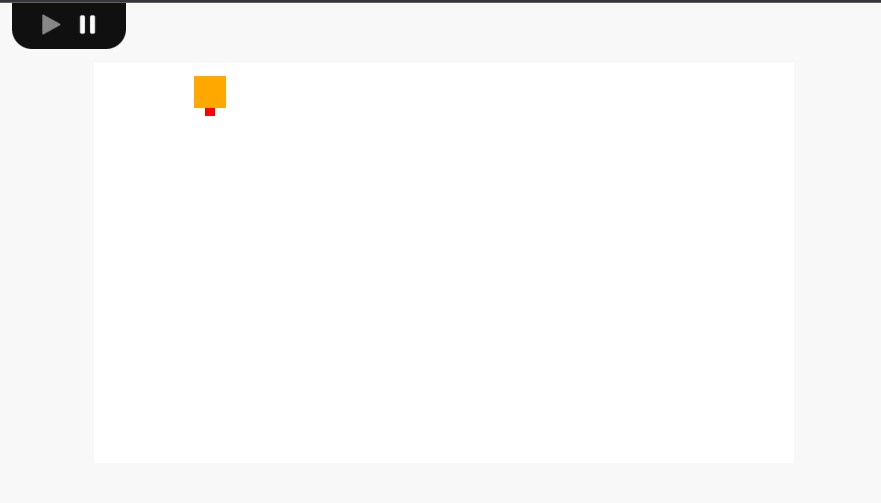
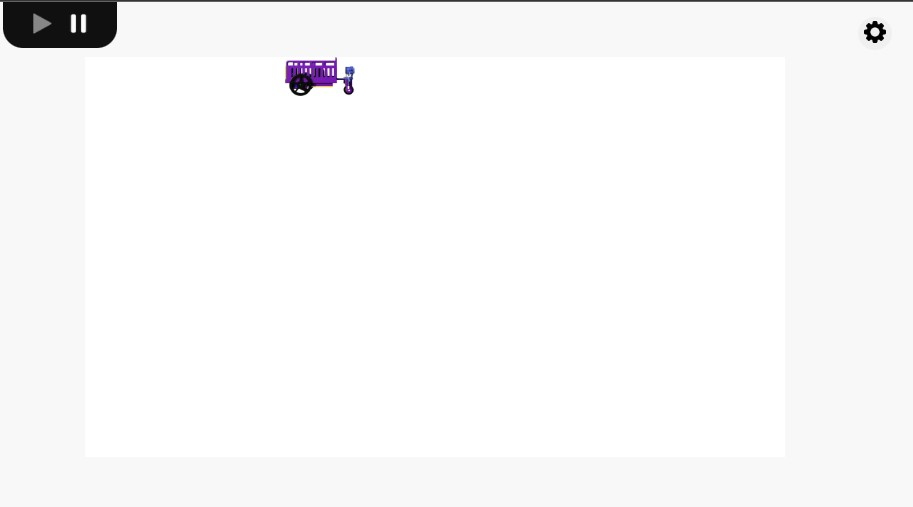
feat: destaque aro-code e orientacao do player

Changed region(s): [[0.0, 0.0, 1.0, 0.1193], [0.3065, 0.1193, 0.3984, 0.2087], [0.2145, 0.1491, 0.2758, 0.2386]]

diff --git a/pages/index.jsx b/pages/index.jsx
@@ -7,6 +7,9 @@ import LogoAP from '@/components/ui/LogoAP'
 
 import { useState } from 'react'
 
+import HwImage1 from '../public/images/hw-1.jpeg';
+import HwImage2 from '../public/images/hw-2.jpeg';
+
 export default function Home() {
 
   const [showNavbarLinks, setShowNavbarLinks] = useState(false);
@@ -34,6 +37,7 @@ export default function Home() {
               <div type="button" className={HomeStyle.navbarLinks + ' ' + (showNavbarLinks ? HomeStyle.navbarLinksShow : '')}
               >
                 <Link className={HomeStyle.headerLink} href={'/playground'}>Playground</Link>
+                <Link className={HomeStyle.headerLink} href={'https://dev.arotec.ao'}>ARO-CODE</Link>
                 <Link className={HomeStyle.headerLink} href={'/#arobot'}>Conheça AROBOT</Link>
               </div>
               <button type='button' className={HomeStyle.menuButton} onClick={() => {
@@ -54,13 +58,19 @@ export default function Home() {
             <div className={HomeStyle.headerAreaText}>
               <div>
                 <div className={HomeStyle.textHeader}>
-                  Teste agora o <span>AROBOT</span> sem precisar de equipamento! <br />
+                  Aproveite os nossos recursos online, e teste agora o <span>AROBOT</span> sem precisar de equipamento ou venha fazer seus testes
+                  seus códigos e projectos em linguagem de programação com ARO-CODE.
                   Viva a experiência <span className={HomeStyle.textHeaderMark}>sem custo algum</span>
                   .</div>
-                <div className={HomeStyle.shadowHeaderButton}>
-                  <Link href="/playground"><Button color="primary">Teste já</Button></Link>
-                </div>
+                <div className={HomeStyle.headerBututons}>
+                  <div className={HomeStyle.shadowHeaderButton}>
+                    <Link href="/playground"><Button color="primary">Veja AROBOT</Button></Link>
+                  </div>
 
+                  <div className={HomeStyle.shadowHeaderButton}>
+                    <Link href="/playground"><Button color="secundary">Veja ARO-CODE</Button></Link>
+                  </div>
+                </div>
               </div>
             </div>
 
@@ -76,7 +86,7 @@ export default function Home() {
         <div className={HomeStyle.areaContainer + ' ' + HomeStyle.hwSection}>
           <div className={HomeStyle.hwTitleSection}>Como Funciona?</div>
           <div className={HomeStyle.hwStepsContainer}>
-            <HowWorks title="Crie suas etapas e instruções" srcImage="/images/hw-1.jpeg">
+            <HowWorks title="Crie suas etapas e instruções" image={HwImage1}>
               Para começares um projeto no playground, começa por adicionar
               blocos ao teu projeto através dos menus na barra lateral
               esquerda. Estes blocos são os elementos fundamentais do
@@ -88,7 +98,7 @@ export default function Home() {
               melhor maneira possível.
             </HowWorks>
 
-            <HowWorks title="Execute e vê o resultado" srcImage="/images/hw-2.jpeg">
+            <HowWorks title="Execute e vê o resultado" image={HwImage2}>
               Depois de organizares a ordem dos teus blocos conforme desejado, executa
               o teu projeto para verificar o resultado, identificar possíveis erros
               e encontrar oportunidades de melhoria. Demonstra às tuas amizades

diff --git a/components/ui/ArobotPlayer/index.jsx b/components/ui/ArobotPlayer/index.jsx
@@ -2,6 +2,11 @@ import Styles from './styles.module.css';
 import PlaygroundContext from '@/components/contexts/PlaygroundContext';
 import { useContext, useEffect, useRef, useState } from 'react';
 
+import Image from 'next/image';
+
+import arobotDefault from '@/public/player.png';
+import arobotTop from '@/public/player2.png';
+
 
 
 //fórmula de conversão de graus para radiano. ((PI * 2) /360) * graus
@@ -14,16 +19,23 @@ const timeUpdate = 15;
 
 var currentAnimation = null;
 
+const imagesArobot ={
+    playerDefault:  arobotDefault,
+    playerTop: arobotTop
+}
+
 export default function ArobotPlayer() {
     const { arobotTriggers, runState } = useContext(PlaygroundContext);
     const arobot = useRef(null);
+    
+    const [currentRender, setCurrentRender] = useState(imagesArobot.playerDefault);
     const [luzActive, setLuzActive] = useState(false);
 
 
     useEffect(() => {
         const idInterval = setInterval(() => {
             if (arobot.current) {
-                ///   arobot.current.scrollIntoView(true);
+                arobot.current.scrollIntoView(true);
             }
 
         }, 100);
@@ -59,6 +71,7 @@ export default function ArobotPlayer() {
                 pos.y = 0;
                 rot = 0;
                 setLuzActive(false);
+                setCurrentRender(imagesArobot.playerDefault);
             }
         }
 
@@ -95,6 +108,9 @@ export default function ArobotPlayer() {
     arobotTriggers.rotacionar = (graus) => {
         graus = parseInt(graus.toString());
         return new Promise((resolve, reject) => {
+            
+            setCurrentRender(imagesArobot.playerTop);
+
             currentAnimation = arobot.current.animate([
                 { transform: 'rotate(' + rot + 'deg)' },
                 { transform: 'rotate(' + (rot + graus) + 'deg)' }
@@ -105,8 +121,13 @@ export default function ArobotPlayer() {
             })
             currentAnimation.onfinish = () => {
                 rot = rot + graus;
+                if(rot == 0 || rot == 180){
+                    setCurrentRender(imagesArobot.playerDefault);
+                }
+             
                 resolve();
             }
+           
         })
     }
 
@@ -114,6 +135,9 @@ export default function ArobotPlayer() {
     arobotTriggers.rotacionarExato = (graus) => {
         graus = parseInt(graus.toString());
         return new Promise((resolve, reject) => {
+
+            setCurrentRender(imagesArobot.playerTop);
+            
             currentAnimation = arobot.current.animate([
                 { transform: 'rotate(' + rot + 'deg)' },
                 { transform: 'rotate(' + (graus) + 'deg)' }
@@ -124,6 +148,10 @@ export default function ArobotPlayer() {
             })
             currentAnimation.onfinish = () => {
                 rot = graus;
+
+                if(rot == 0 || rot == 180){
+                    setCurrentRender(imagesArobot.playerDefault);
+                }
                 resolve();
             }
         })
@@ -140,6 +168,6 @@ export default function ArobotPlayer() {
     }
 
     return (<div className={Styles.arobot + ' ' + (luzActive ? Styles.arobotLuzActive : '')} ref={arobot}>
-        <img width='70px' height='auto' src="/player.png" alt="" />
+        <Image width='50' src={currentRender} alt="" />
     </div>);
 }

diff --git a/components/pages/home/HowWorks/index.jsx b/components/pages/home/HowWorks/index.jsx
@@ -1,7 +1,7 @@
 import Image from 'next/image'
 import Styles from './styles.module.css'
 
-export default function HowWorks({ title, srcImage, children }) {
+export default function HowWorks({ title, image, children }) {
     return (
         <div className={Styles.hw}>
             <div className={Styles.hwTextArea}>
@@ -10,7 +10,7 @@ export default function HowWorks({ title, srcImage, children }) {
             </div>
             <div className={Styles.hwImageArea}>
                 <div className={Styles.hwBlurImage}>
-                    <Image src={srcImage} width='320' height='250' alt='' />
+                    <Image src={image} width='280' alt='' />
                 </div>
             </div>
         </div>

diff --git a/styles/modules/home.module.css b/styles/modules/home.module.css
@@ -16,6 +16,7 @@
     width: 100%;
     padding: 40px 0px;
     margin-bottom: 50px;
+    height: 100vh;
 }
 
 .headerCover {
@@ -120,7 +121,7 @@
 
 .textHeader {
     font-size: 1.4em;
-    margin-bottom: 20px;
+    margin-bottom: 40px;
 
 }
 
@@ -148,6 +149,11 @@
     border-radius: 2px;
     animation: headerMarkAnim 1.2s infinite ease-out;
 
+}
+
+.headerBututons{
+    display:flex;
+    gap: 10px;
 }
 
 @keyframes headerMarkAnim {

diff --git a/components/ui/Button/styles.module.css b/components/ui/Button/styles.module.css
@@ -1,5 +1,5 @@
 .btn {
-    width: 120px;
+    min-width: 120px;
     display: flex;
     align-items: center;
     justify-content: center;
